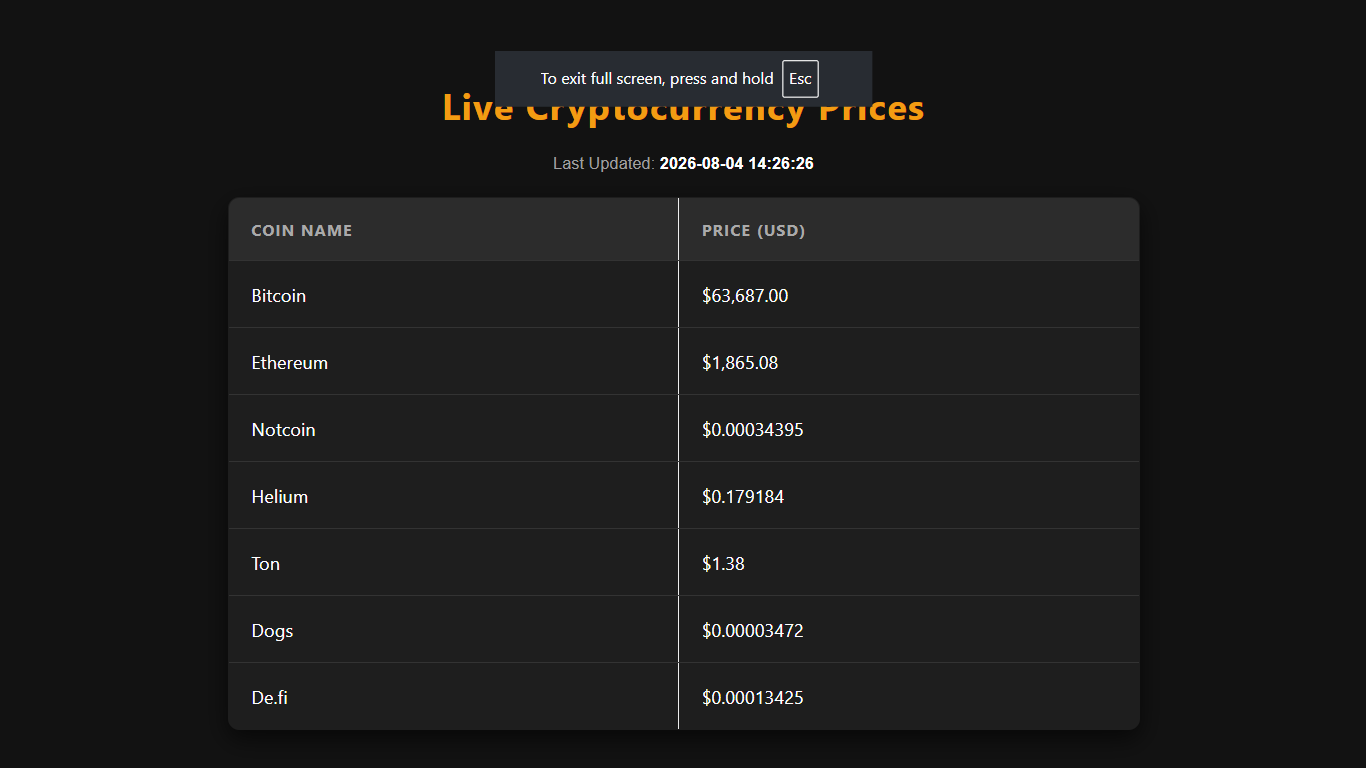
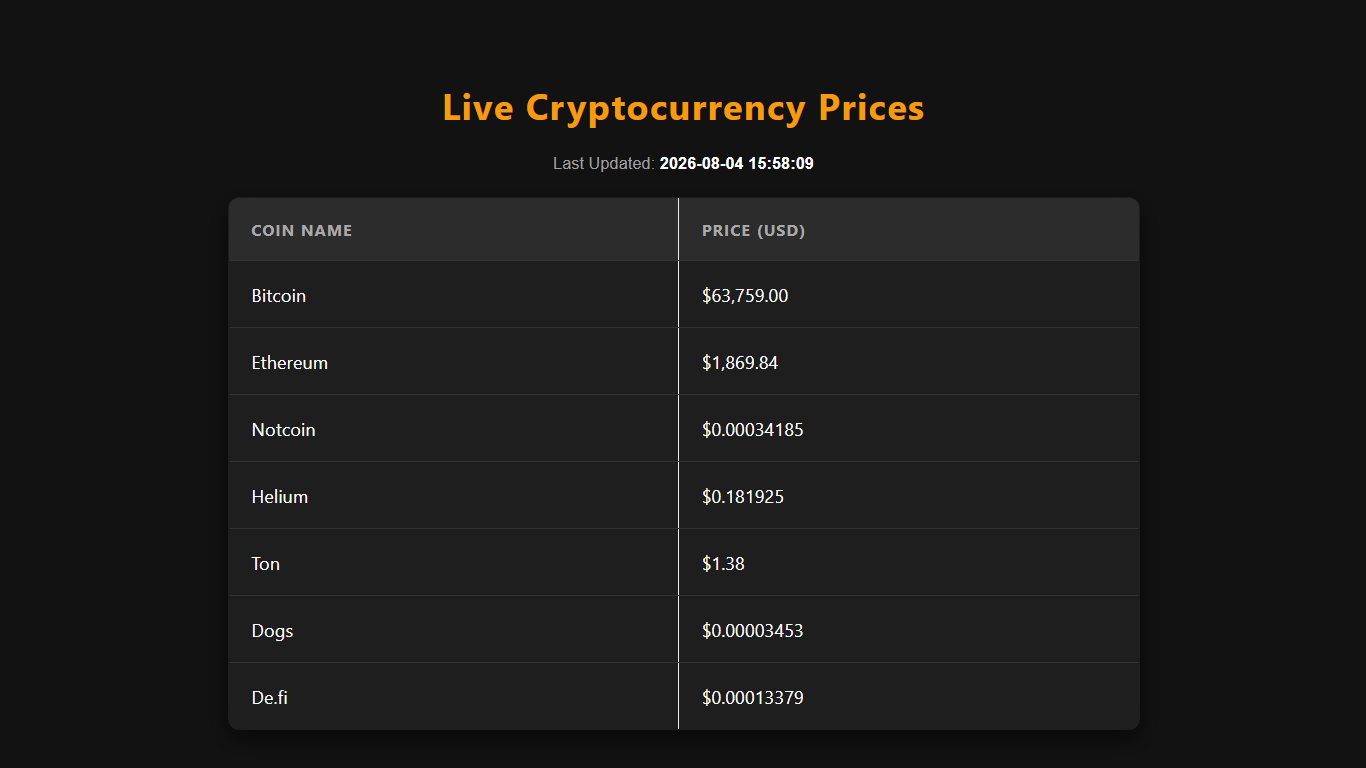
docs: add project README and documentation assets

diff --git a/README.md b/README.md
@@ -31,7 +31,7 @@
 <br />
 <div align="center">
   <a href="https://github.com/FeriCodes/coin-watcher">
-    <img src="📊" alt="Logo" width="80" height="80">
+    <img src="images/icon.png" alt="Logo" width="80" height="80">
   </a>
 
 <h3 align="center">Coin Watcher</h3>
